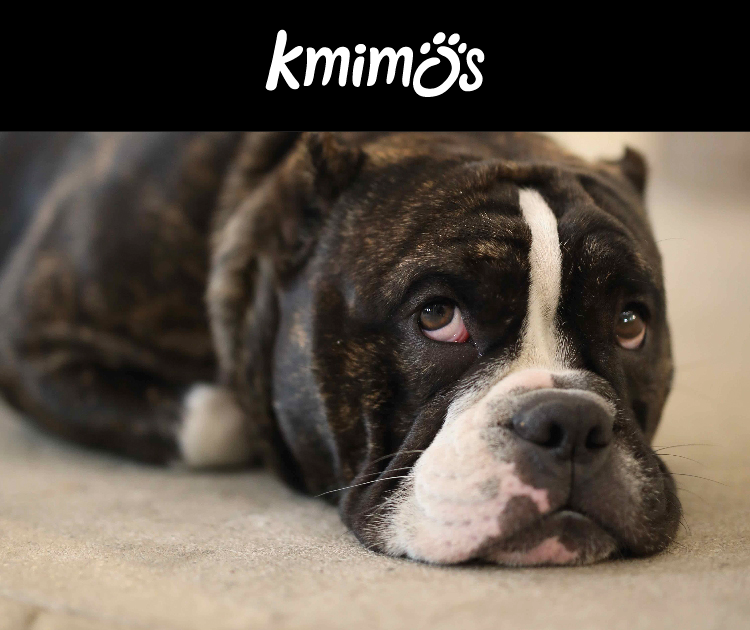
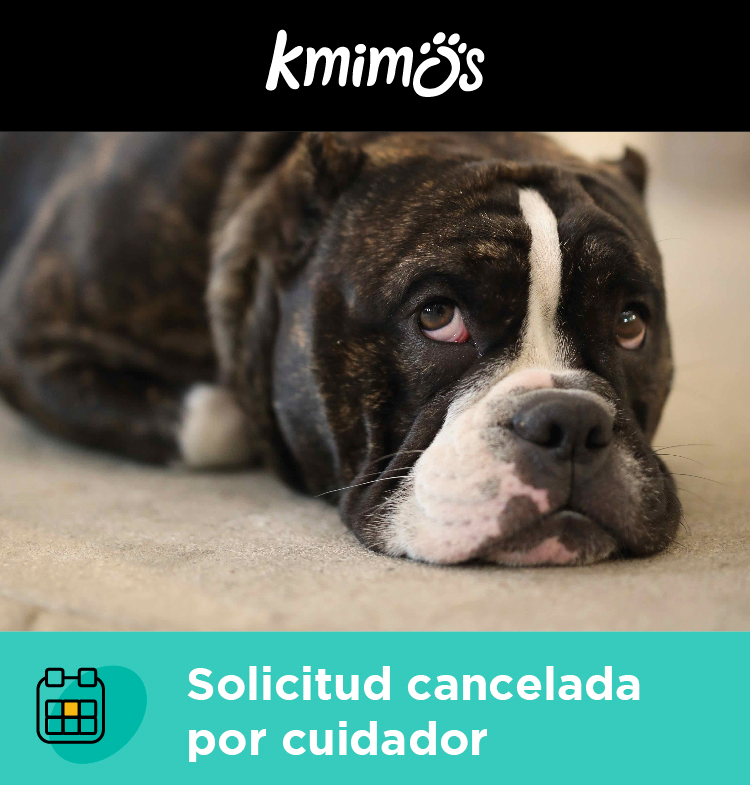
Act: cancelacion conocer cuidador - Cuidador

diff --git a/wp-content/themes/kmimos/procesos/conocer/cancelar.php b/wp-content/themes/kmimos/procesos/conocer/cancelar.php
@@ -81,16 +81,16 @@
     	$rating_txt = "";
     	foreach ($rating as $key => $value) {
     		if( $value == 1 ){
-    			$rating_txt .= "<img style='width: 15px; padding: 0px 1px;' src='[URL_IMGS]/new/huesito.png' >";
+    			$rating_txt .= "<img style='width: 25px; padding-right: 10px;' src='[URL_IMGS]/new/huesito.png' >";
     		}else{
-    			$rating_txt .= "<img style='width: 15px; padding: 0px 1px;' src='[URL_IMGS]/huesito_vacio.png' >";
+    			$rating_txt .= "<img style='width: 25px; padding-right: 10px;' src='[URL_IMGS]/huesito_vacio.png' >";
     		}
     	}
     	$servicios = vlz_servicios($valor->adicionales, true);
     	$servicios_txt = "";
         if( $servicios != "" ){
         	foreach ($servicios as $key => $value) {
-        		$servicios_txt .= "<img style='margin: 0px 3px 0px 0px;' src='[URL_IMGS]/servicios/".str_replace('.svg', '_.png', $value["img"])."' height='100%' align='middle' >";
+        		$servicios_txt .= "<img style='margin: 0px 3px 0px 0px; vertical-align: middle;' src='[URL_IMGS]/servicios/".str_replace('.svg', '_.png', $value["img"])."' height='100%' align='middle' >";
         	}
         }
 
@@ -130,10 +130,10 @@
             
             $CANCELADO_POR = "cliente";
         }else{
-            $msg_cliente = "Te notificamos que el cuidador <strong>[name_cuidador]</strong> ha <span style='font-family: Arial; font-size: 20px; color: #7d1696;'>cancelado</span> la solicitud para conocerle.";
-            $msg_cuidador = "Te notificamos que la solicitud para conocerte ha sido cancelada exitosamente.";
+            $msg_cliente = "Te notificamos que el cuidador <strong>[name_cuidador]</strong> no est&aacute; disponible por los momentos, por lo que la solicitud de conocer cuidador fue <span style='font-family: Arial; font-size: 20px; color: #7d1696; font-weight: 600;'>RECHAZADA</span>";
+            $msg_cuidador = "Te notificamos que la solicitud para conocerte ha sido <span style='font-family: Arial; font-size: 25px; color: #7d1696; font-weight: 600;'>cancelada</span> exitosamente.";
 
-            $msg_admin = "Te notificamos que el cuidador <strong>[name_cuidador]</strong> ha <span style='font-family: Arial; font-size: 20px; color: #7d1696;'>cancelado</span> la solicitud para conocerle, realizado por el cliente <strong>[name_cliente]</strong>.";
+            $msg_admin = "Te notificamos que el cuidador <strong>[name_cuidador]</strong> ha <span style='font-family: Arial; font-size: 25px; color: #7d1696; font-weight: 600;'>cancelado</span> la solicitud para conocerle, realizado por el cliente <strong>[name_cliente]</strong>.";
             
             $CANCELADO_POR = "cuidador";
         }
@@ -149,7 +149,7 @@
     $mensaje_cliente = str_replace('[mensaje]', $msg_cliente, $mensaje_cliente);
     $mensaje_cliente = str_replace("[TITULO_CANCELACION]", $titulo_cancelacion, $mensaje_cliente);
     $mensaje_cliente = str_replace('[id_solicitud]', $id_orden, $mensaje_cliente);
-    $mensaje_cliente = str_replace('[name_cliente]', "<strong style='text-transform: uppercase;'>".strtoupper($cliente_name)."</strong>", $mensaje_cliente);
+    $mensaje_cliente = str_replace('[name_cliente]', "<strong style=''>".($cliente_name)."</strong>", $mensaje_cliente);
     $mensaje_cliente = str_replace('[name_cuidador]', $cuidador_name, $mensaje_cliente);
     if( $usu == "CLI" ){
         $mensaje_cliente = str_replace('[SUGERIDOS]', "", $mensaje_cliente);
@@ -161,7 +161,7 @@
 
 
 	$mensaje_cliente = get_email_html( $mensaje_cliente, true, true, $cliente, false );	
-    $mensaje_cliente = str_replace("http://localhost/NewKmimos/", "http://kmimosmx.sytes.net/QA2/", $mensaje_cliente);
+    // $mensaje_cliente = str_replace("http://localhost/NewKmimos/", "http://kmimosmx.sytes.net/QA2/", $mensaje_cliente);
 
     if( isset($NO_ENVIAR) ){
         echo $mensaje_cliente;
@@ -172,9 +172,6 @@
         wp_mail( $email_cliente, "Cancelación de Solicitud para conocer cuidador", $mensaje_cliente);
     }
 
-
-    exit();
-
     $file = $PATH_TEMPLATE.'/template/mail/conocer/cuidador/cancelar.php';
     $mensaje_cuidador = file_get_contents($file);
 
@@ -184,9 +181,10 @@
     $mensaje_cuidador = str_replace('[name_cliente]', $cliente_name, $mensaje_cuidador);
     $mensaje_cuidador = str_replace('[name_cuidador]', $cuidador_name, $mensaje_cuidador);
     $mensaje_cuidador = str_replace('[URL_IMGS]', get_home_url()."/wp-content/themes/kmimos/images/emails", $mensaje_cuidador);
+    $mensaje_cuidador = str_replace('[CANCELADO_POR]', $CANCELADO_POR, $mensaje_cuidador);
 
     $mensaje_cuidador = get_email_html( $mensaje_cuidador, true, true, $cliente, false ); 
-    $mensaje_cuidador = str_replace("http://localhost/NewKmimos/", "http://kmimosmx.sytes.net/QA2/", $mensaje_cuidador);  
+    // $mensaje_cuidador = str_replace("http://localhost/NewKmimos/", "http://kmimosmx.sytes.net/QA2/", $mensaje_cuidador);  
 
     if( isset($NO_ENVIAR) ){
         echo $mensaje_cuidador;
@@ -211,9 +209,10 @@
         $mensaje_admin = str_replace('[CUIDADORES]', $str_sugeridos, $mensaje_admin);
     }
     $mensaje_admin = str_replace('[URL_IMGS]', get_home_url()."/wp-content/themes/kmimos/images/emails", $mensaje_admin);
+    $mensaje_admin = str_replace('[CANCELADO_POR]', $CANCELADO_POR, $mensaje_admin);
 
     $mensaje_admin = get_email_html( $mensaje_admin, true, true, $cliente, false );  
-    $mensaje_admin = str_replace("http://localhost/NewKmimos/", "http://kmimosmx.sytes.net/QA2/", $mensaje_admin);    
+    // $mensaje_admin = str_replace("http://localhost/NewKmimos/", "http://kmimosmx.sytes.net/QA2/", $mensaje_admin);    
 
     if( isset($NO_ENVIAR) ){
         echo $mensaje_admin;

diff --git a/wp-content/themes/kmimos/template/mail/reservar/partes/cuidadores.php b/wp-content/themes/kmimos/template/mail/reservar/partes/cuidadores.php
@@ -1,25 +1,17 @@
-<style type="text/css">
-    @media max-width: 600px {
-        a[id*='precio'] {
-            font-size: 16px;
-        }
-    }
-</style>
-
 <div style='
-	display: inline-block; 
-	width: 260px; 
-	background-color: #ffffff; 
-	margin: 0px 10px 20px;
+    display: block;
+    background-color: #ffffff;
+    margin: 0px auto 20px;
+    width: 400px;
     box-sizing: border-box;
-    padding-bottom: 10px;
+    padding: 20px;
 '>
 	
-	<table width="260" style='
-	    padding: 10px;
+	<table width="360" style='
+	    padding: 0px;
 	'>
 		<tr>
-			<td align="center" height="130" width="260" style="
+			<td align="center" height="160" width="360" style="
 				background-image: url('[AVATAR]'); 
 				background-repeat: no-repeat; 
 				background-position: center; 
@@ -31,53 +23,73 @@
 
 	<div style="padding: 10px;">
 		
-		<div style='font-family: Arial; font-size: 24px; font-weight: bold; letter-spacing: 0.4px; text-align: left; color: #000000; margin: 5px 0px 3px;'>
+		<div style='    
+			font-family: Arial;
+		    font-size: 30px;
+		    font-weight: bold;
+		    letter-spacing: 0.4px;
+		    text-align: left;
+		    color: #000000;
+		    margin: 5px 0px 3px;
+		    text-transform: uppercase;
+	    '>
 			[NAME_CUIDADOR]
 		</div>
 
-		<div style='font-family: Arial; font-size: 13px; letter-spacing: -0.1px; color: #000000; text-align: left;'>
+		<div style='
+		    font-family: Verdana;
+		    font-size: 16px;
+		    letter-spacing: -0.3px;
+		    color: #000000;
+		    text-align: left;
+		'>
 			[EXPERIENCIA] años de experiencia
 		</div>
 
-		<div style='margin: 5px; text-align: left;'>
+		<div style='margin: 10px 0px; text-align: left;'>
 			[HUESOS]
 		</div>
 
-		<div style='font-family: Arial; font-size: 13px; font-weight: bold; letter-spacing: -0.1px; text-align: left; color: #0d7ad9; height: 30px;'>
-			[SERVICIOS] <span id="precio" style="color: #000000; display: inline-block; vertical-align: middle; padding-top: 7px;">DESDE MXN$ <span style='font-family: Arial; font-size: 18px;'>[MONTO]</span>[MONTO_DECIMALES]</span>
+		<div style='font-family: Arial; font-size: 13px; font-weight: bold; letter-spacing: -0.1px; text-align: left; color: #000; height: 40px; vertical-align: middle;'>
+			[SERVICIOS]
+			<span id="precio" style="font-family: Arial; font-size: 17px; font-weight: 600; letter-spacing: -0.1px; text-align: left; vertical-align: middle;">
+				DESDE MXN$ 
+				<span style='font-family: Arial; font-size: 32px;'>[MONTO]</span>
+				[MONTO_DECIMALES]
+			</span>
 		</div>
 
 	</div>
 
-	<div style='text-align: center;'>
+	<div style='text-align: center; margin-top: 10px;'>
 
 		<a href='[LIKS]' target='_blank' style='
 		    text-decoration: none;
 		    display: inline-block;
-		    width: 115px;
+		    width: 160px;
 		    border-radius: 3px;
 		    border: solid 1px #000;
-		    padding: 8px 0px 6px;
+		    padding: 12px 0px;
 		    text-align: center;
 		    margin: 0px 3px 0px 0px;
 		    color: #000;
-		    font-size: 0.7rem;
+		    font-size: 14px;
 		    font-weight: 600;
 		'>
-			CONOCELO M&Aacute;S
+			CONOCE M&Aacute;S
 		</a>
 
 		<a href='[LIKS]' target='_blank' style='
 		    text-decoration: none;
 		    display: inline-block;
-		    width: 115px;
+		    width: 160px;
 		    border-radius: 3px;
 		    border: solid 1px #920e9d;
-		    padding: 8px 0px 6px;
+		    padding: 12px 0px;
 		    text-align: center;
 		    margin: 0px 3px 0px 0px;
 		    color: #FFF;
-		    font-size: 0.7rem;
+		    font-size: 14px;
 		    font-weight: 600;
 		    background-color: #920e9d;'>
 			RESERVA AQU&Iacute;

diff --git a/wp-content/themes/kmimos/template/mail/reservar/partes/sugeridos.php b/wp-content/themes/kmimos/template/mail/reservar/partes/sugeridos.php
@@ -1,15 +1,15 @@
-<div style='background-color: #efefef; font-family: Arial; font-size: 16px; line-height: 1.07; letter-spacing: 0.3px; color: #000000; padding: 30px 30px 20px;'>
+<div style='background-color: #efefef; font-family: Verdana; font-size: 16px; line-height: 1.07; letter-spacing: 0.3px; color: #000000; padding: 30px 30px 20px;'>
 
-	<span style='font-family: Arial; font-size: 17px; color: #6b1c9b; font-weight: 600;'>Pero…</span> te sugerimos estos perfiles con <strong>caracteristicas similares</strong> a lo que buscas que creemos pueden interesarte.
-	<span style='font-family: Arial; color: #6b1c9b;'>solo da click en ellos y te llevaran directamente a su perfil</span>
-	<div style="padding: 15px 0px 0px; text-align: center;">
+	<span style='font-family: Verdana; font-size: 17px; color: #6b1c9b; font-weight: 600;'>Pero…</span> te sugerimos estos perfiles con <strong>caracteristicas similares</strong> a lo que buscas que creemos pueden interesarte.
+	<span style='font-family: Verdana; color: #6b1c9b;'>solo da click en ellos y te llevaran directamente a su perfil</span>
+	<div style="padding: 30px 0px; text-align: center;">
     	<img style='' src='[URL_IMGS]/emoji_feliz_2.png' >
     </div>
 
-</div>
+    <div style='background-color: #efefef; text-align: center;'>
+		[CUIDADORES]
+	</div>
 
-<div style='background-color: #efefef; text-align: center;'>
-	[CUIDADORES]
 </div>
 
 <div style='font-family: Arial; font-size: 14px; line-height: 1.07; letter-spacing: 0.3px; color: #000000; padding: 26px 0px 30px;'>

diff --git a/wp-content/themes/kmimos/template/mail/conocer/admin/cancelar.php b/wp-content/themes/kmimos/template/mail/conocer/admin/cancelar.php
@@ -1,4 +1,4 @@
-<img src='[URL_IMGS]/new/cancelar_solicitud_2.png' style='width: 600px;' >
+<img src='[URL_IMGS]/new/cancelaciones/[CANCELADO_POR].png' style='width: 600px;' >
 
 <div style='padding: 0px;'>
 
@@ -12,7 +12,7 @@
 		    background-color: #e4e4e4;
 		    margin: 0px auto;
 		    font-family: Arial;
-		    font-size: 15px;
+		    font-size: 18px;
 		    letter-spacing: 0.3px;
 		    color: #000000;
 		    padding: 14px 0px;
@@ -22,21 +22,22 @@
 	    </div>
 
 	    <div style='
-    	    font-family: Arial;
-		    font-size: 16px;
+	        font-family: Verdana;
+    		font-size: 17px;
 		    line-height: 1.07;
 		    letter-spacing: 0.3px;
 		    color: #000;
-		    padding: 30px;
+		    padding: 30px 10px;
+    		text-align: justify;
 	    '>
 	    	[mensaje]
 	    </div>
 
-	    <div style='background-color: #efefef; font-family: Arial; font-size: 16px; line-height: 1.07; letter-spacing: 0.3px; color: #000000; padding: 30px 30px 20px;'>
+	    <div style='background-color: #efefef; font-family: Verdana; font-size: 16px; line-height: 1.07; letter-spacing: 0.3px; color: #000000; padding: 30px 30px 20px;'>
 	    	<strong>Sugerencias enviadas al cliente:</strong>
 	    </div>
 
-	    <div style='background-color: #efefef; text-align: center;'>
+	    <div style='background-color: #efefef; text-align: center; padding-bottom: 30px;'>
 	    	[CUIDADORES]
 	    </div>
 

diff --git a/wp-content/themes/kmimos/template/mail/conocer/cliente/cancelar.php b/wp-content/themes/kmimos/template/mail/conocer/cliente/cancelar.php
@@ -1,9 +1,8 @@
 <img src='[URL_IMGS]/new/cancelaciones/[CANCELADO_POR].png' style='width: 600px;' >
-
 <div style='padding: 0px;'>
 
 	<div style='font-size: 14px; line-height: 1.07; letter-spacing: 0.3px; color: #000000;'>
-		<div style='font-family: Arial; font-size: 140%; font-weight: bold; letter-spacing: 0.4px; color: #7d1696; padding: 30px;'>
+		<div style='font-family: Verdana; font-size: 24px; font-weight: bold; letter-spacing: 0.4px; color: #7d1696; padding: 30px;'>
 			Hola [name_cliente],
 		</div>	
 
@@ -12,7 +11,7 @@
 		    background-color: #e4e4e4;
 		    margin: 0px auto;
 		    font-family: Arial;
-		    font-size: 15px;
+		    font-size: 18px;
 		    letter-spacing: 0.3px;
 		    color: #000000;
 		    padding: 14px 0px;
@@ -22,14 +21,19 @@
 	    </div>
 
 	    <div style='
-    	    font-family: Arial;
-		    font-size: 16px;
+	        font-family: Verdana;
+    		font-size: 17px;
 		    line-height: 1.07;
 		    letter-spacing: 0.3px;
 		    color: #000;
 		    padding: 30px;
+	        text-align: justify;
 	    '>
-	    	[mensaje]
+	    	[mensaje] <img style='
+	    		height: 25px;
+			    vertical-align: bottom;
+			    margin-left: 5px;
+	    	' src='[URL_IMGS]/new/perrito_triste.png' >
 	    </div>
 
 	    [SUGERIDOS]

diff --git a/wp-content/themes/kmimos/template/mail/conocer/cuidador/cancelar.php b/wp-content/themes/kmimos/template/mail/conocer/cuidador/cancelar.php
@@ -1,9 +1,9 @@
-<img src='[URL_IMGS]/new/cancelar_solicitud_2.png' style='width: 600px;' >
+<img src='[URL_IMGS]/new/cancelaciones/[CANCELADO_POR].png' style='width: 600px;' >
 
 <div style='padding: 0px;'>
 
 	<div style='font-size: 14px; line-height: 1.07; letter-spacing: 0.3px; color: #000000;'>
-		<div style='font-family: Arial; font-size: 20px; font-weight: bold; letter-spacing: 0.4px; color: #6b1c9b; padding: 30px;'>
+		<div style='font-family: Arial; font-size: 24px; font-weight: bold; letter-spacing: 0.4px; color: #6b1c9b; padding: 30px;'>
 			Hola [name_cuidador]
 		</div>	
 
@@ -12,7 +12,7 @@
 		    background-color: #e4e4e4;
 		    margin: 0px auto;
 		    font-family: Arial;
-		    font-size: 15px;
+		    font-size: 18px;
 		    letter-spacing: 0.3px;
 		    color: #000000;
 		    padding: 14px 0px;
@@ -22,8 +22,8 @@
 	    </div>
 
 	    <div style='
-    	    font-family: Arial;
-		    font-size: 16px;
+	        font-family: Verdana;
+    		font-size: 17px;
 		    line-height: 1.07;
 		    letter-spacing: 0.3px;
 		    color: #000;
